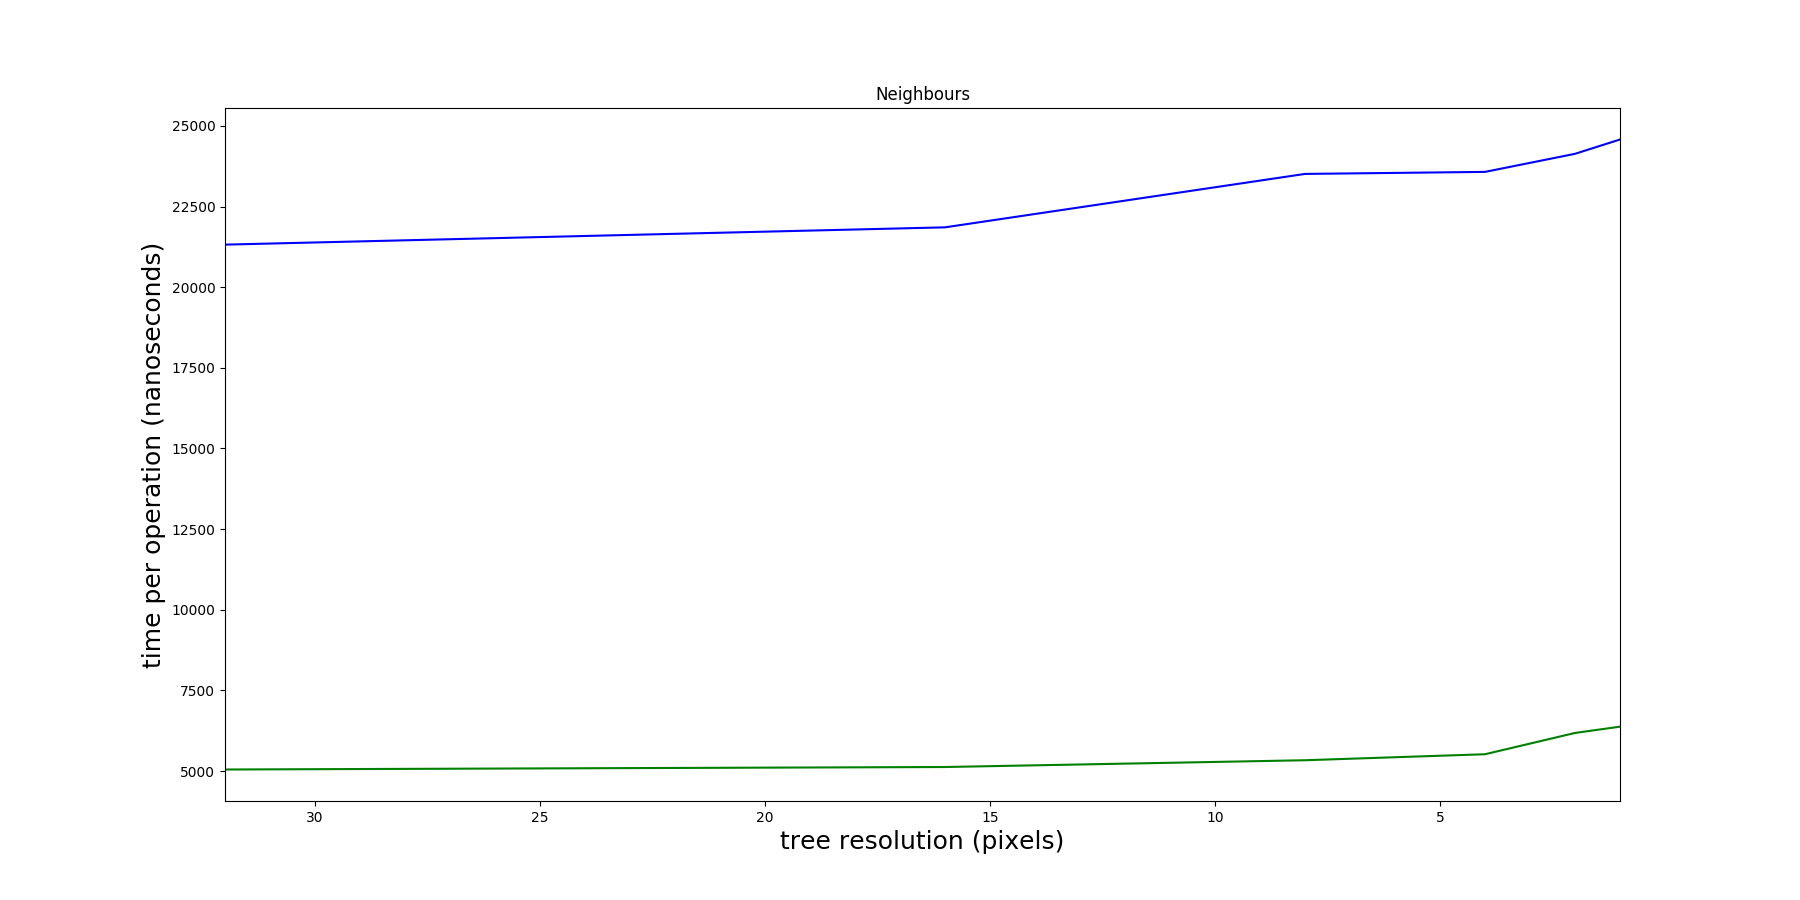
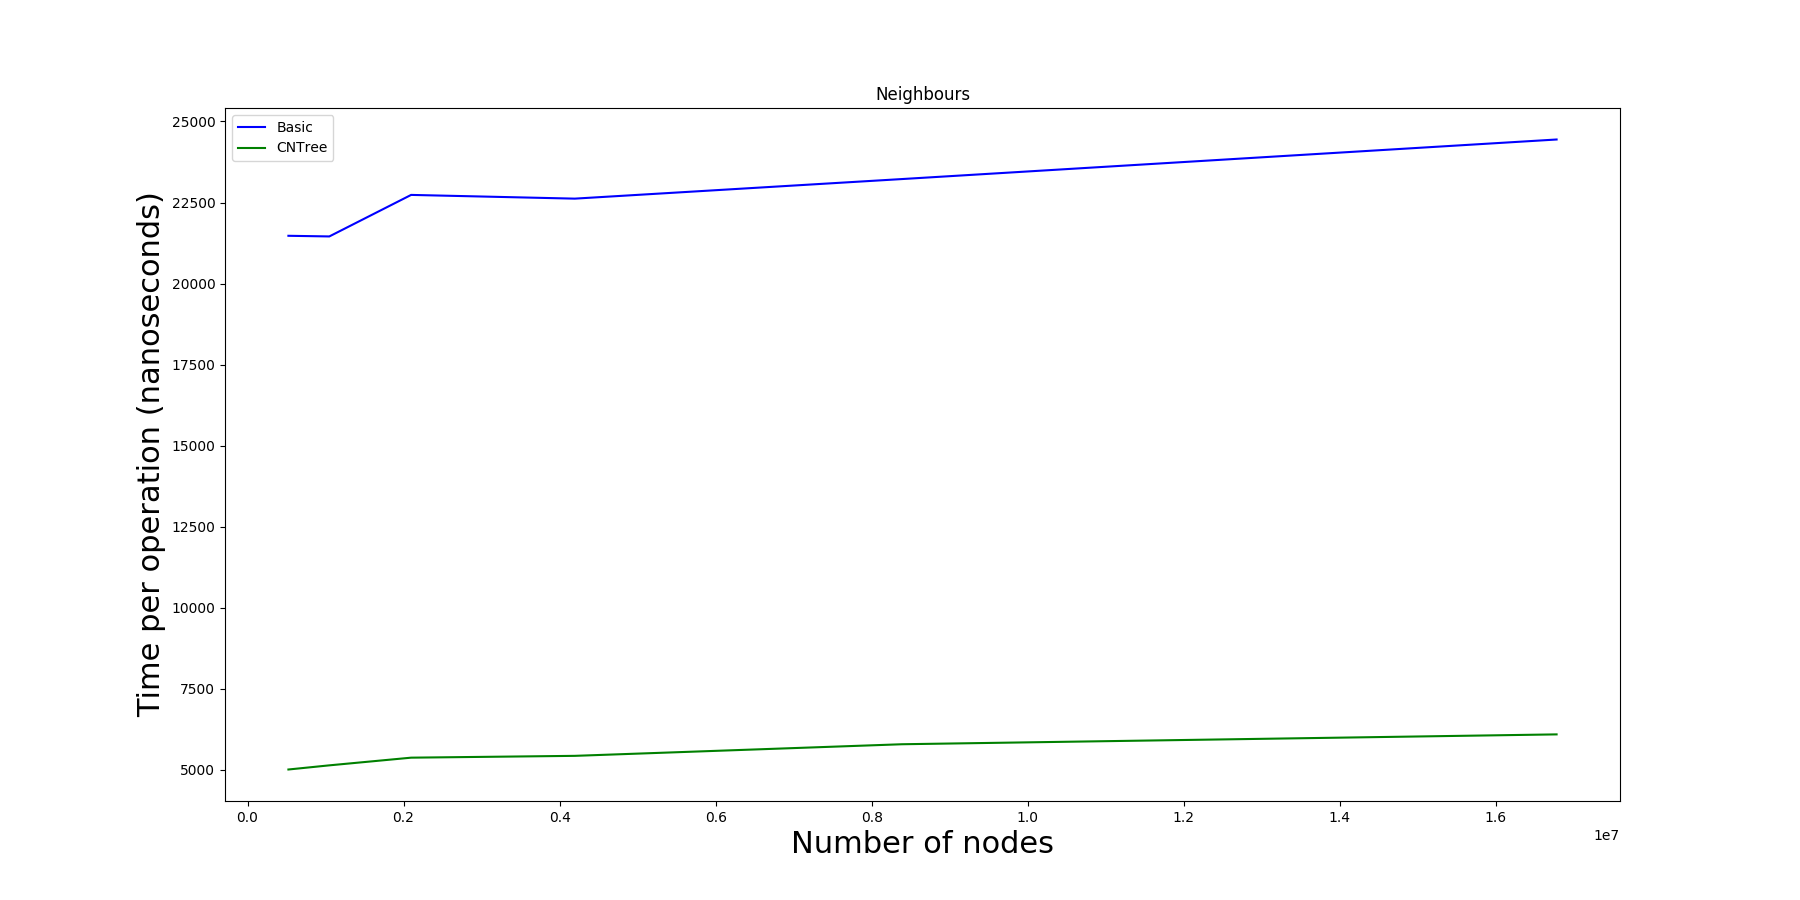
Set number of nodes on x axis

diff --git a/plot.py b/plot.py
@@ -7,46 +7,48 @@ from itertools import groupby, cycle
 import numpy as np
 import matplotlib.pyplot as plt
 
-Point = namedtuple('Point', 'type name resolution time')
-
-# dots = cycle(['r--', 'bs'])
+Point = namedtuple('Point', 'type name nodes time')
 dots = cycle(['r', 'b', 'g'])
-
 prog = re.compile(r'Benchmark(Basic|CNTree)(.*)Res(\d*)-\d*\s*\d*\s*(\d*)')
-
 cmpbench = defaultdict(list)
+sizes = {'Creation': 4096, 'PointLocation': 1024, 'Neighbours': 4096}
 
 with open(sys.argv[1]) as f:
     for line in f.readlines():
         res = prog.match(line.strip())
         if res:
             grp = res.groups()
-            pt = Point(grp[0], grp[1], int(grp[2]), float(grp[3]))
+            type_ = grp[0]
+            name = grp[1]
+            res = int(grp[2])
+            time = float(grp[3])
+            dim = sizes[name]
+            nodes = (dim*dim)/res
+            pt = Point(type_, name, nodes, time)
             cmpbench[pt.name].append(pt)
-
 
 for name, data in cmpbench.iteritems():
     # new plot starts here
     plt.title(name)
+    handles = []
     for k, g in groupby(data, lambda x:x.type):
         pts_x, pts_y = [], []
-        for pt in sorted(list(g), key=lambda x:x.resolution, reverse=True):
-            pts_x.append(pt.resolution)
+        for pt in sorted(list(g), key=lambda x:x.nodes):
+            pts_x.append(pt.nodes)
             pts_y.append(pt.time)
-        plt.xlabel('tree resolution (pixels)', fontsize=18)
         plt.xscale('linear')
         plt.yscale('linear')
-        plt.ylabel('time per operation (nanoseconds)', fontsize=18)
+        plt.xlabel('Number of nodes', fontsize=22)
+        plt.ylabel('Time per operation (nanoseconds)', fontsize=22)
 
-        ax = plt.gca()
-        ax.set_xlim(max(pts_x), min(pts_x))
-
-        plt.plot(pts_x, pts_y, next(dots))
+        hnd, = plt.plot(pts_x, pts_y, next(dots), label=k)
+        handles.append(hnd)
+        plt.legend(handles=handles)
         # print 'x', pts_x
         # print 'y', pts_y
 
-    # plt.show()
     plt.gcf().set_size_inches(18, 9)
+    # plt.show()
     name = name + '.png'
     print 'output plot: ', name
     plt.savefig(name)
